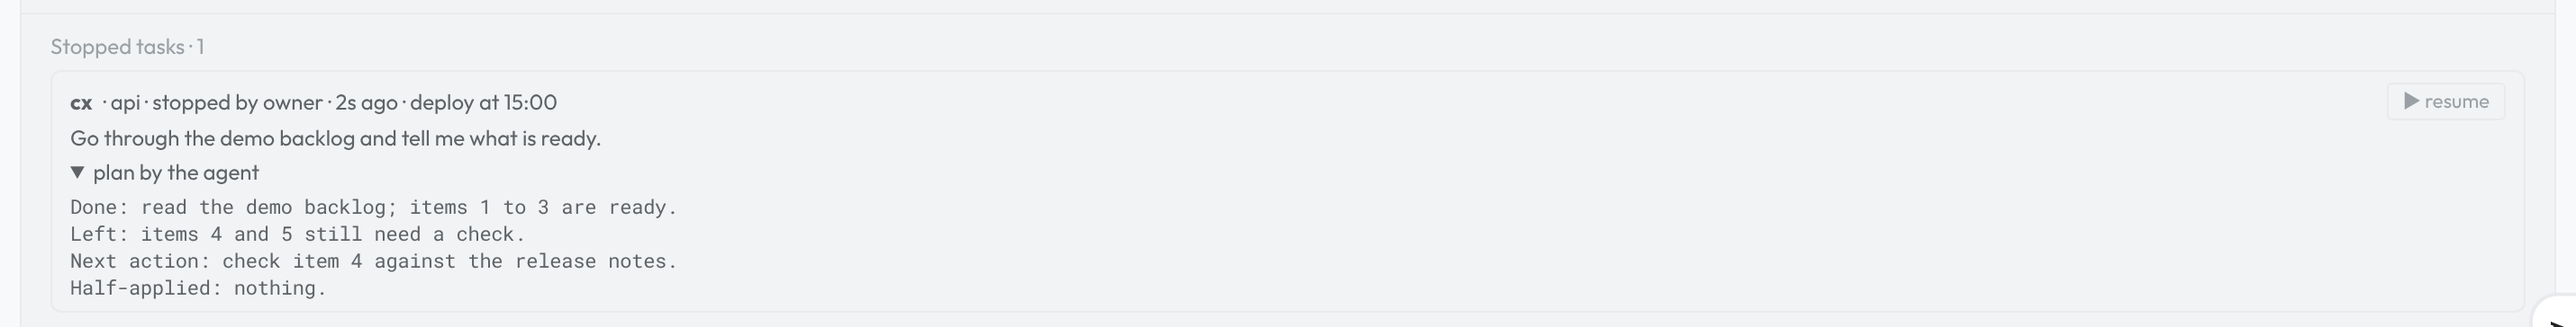
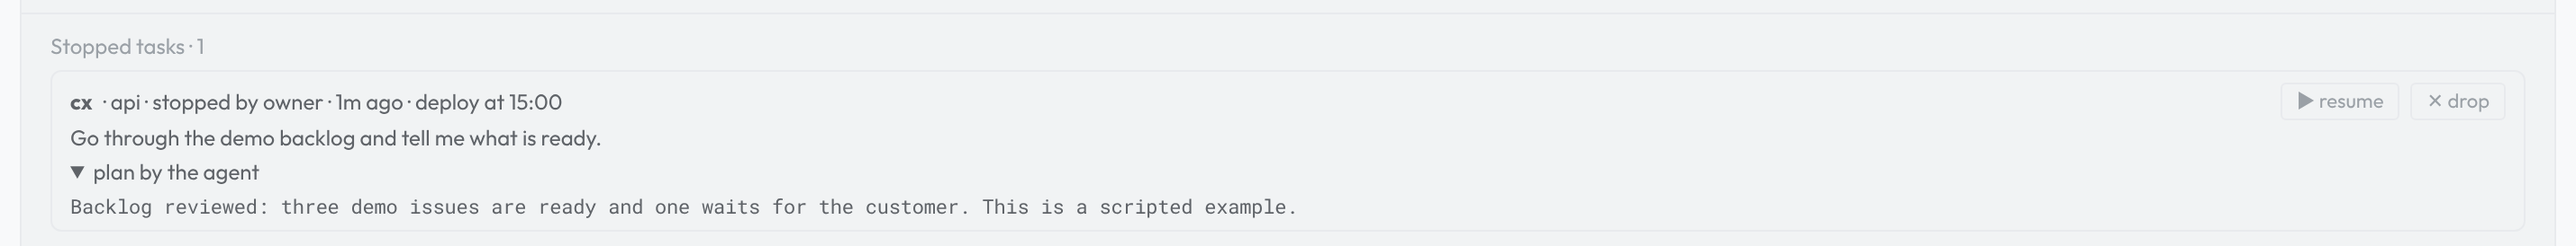
fix(signals): peer token without via is that peer; drop stopped tasks; clear stale claims (#871) (#880)
- signalSender(): a request with a peer's own token (mesh.peers[].token)
  is that peer even without `via`, so signals.allowPeers holds for it.
  The shared MESH_TOKEN still names no peer (owner), as documented.
- Drop a stopped task nobody will resume: SignalService.drop(),
  POST /api/signals/drop (mesh-gated control post, dashboard proxy),
  `agentx signal drop <id>`, and a "drop" button under Stopped tasks on
  the Live page. Same who-may rules as resume; refused while the plan is
  being written or a resume is under way; publishes `signal:dropped`.
- recover() at boot removes a resume claim left on a record that is not
  `resumed` (a crash between claim() and the save), so the task can be
  resumed again.
- Docs: allow-list vs the shared mesh token, dropping a task, the
  plan-writing turn's context; refreshed the Live stopped-task screenshot.

Closes #871

Claude-Session: https://claude.ai/code/session_01AajNkSp8aP27hUnUj5awKm

diff --git a/test/agent-signals.test.ts b/test/agent-signals.test.ts
@@ -1,5 +1,5 @@
 import { describe, it, expect, beforeEach, afterEach } from "vitest"
-import { mkdtempSync, rmSync } from "fs"
+import { existsSync, mkdtempSync, rmSync } from "fs"
 import { tmpdir } from "os"
 import { join } from "path"
 import { canSignal, DEFAULT_SIGNAL_SETTINGS, SignalBudget, type SignalSettings } from "../src/agents/signals/policy"
@@ -341,7 +341,7 @@ describe("config", () => {
 })
 
 describe("live page", () => {
-  it("ships a script that parses, with pause and resume actions", async () => {
+  it("ships a script that parses, with pause, resume and drop actions", async () => {
     const { renderLivePage } = await import("../src/daemon/ui/pages/live")
     const html = renderLivePage()
     const scripts = [...html.matchAll(/<script(?![^>]*\bsrc=)[^>]*>([\s\S]*?)<\/script>/g)].map((m) => m[1])
@@ -349,6 +349,8 @@ describe("live page", () => {
     expect(html).toContain("data-action=\"signal-stop\"")
     expect(html).toContain("data-action=\"signal-resume\"")
     expect(html).toContain("/api/signals/resume")
+    expect(html).toContain("data-action=\"signal-drop\"")
+    expect(html).toContain("/api/signals/drop")
   })
 })
 
@@ -448,5 +450,58 @@ describe("the cut-off tool call and the workflow `signal` kind", () => {
     expect(got).toEqual([])
     legacy.publish({ kind: "signal", name: "go", scope: "global" } as any)
     expect(got).toHaveLength(1)
+  })
+})
+
+describe("follow-ups (#871)", () => {
+  it("a peer's own token is that peer without `via`, so signals.allowPeers holds for it", () => {
+    const sender = signalSender({ proofGiven: false, provenTurn: null, tokenPeer: "laptop" })
+    expect(sender).toEqual({ kind: "peer", peer: "laptop" })
+    if ("error" in sender) throw new Error(sender.error)
+    expect(canSignal(sender, { agentId: "coder" }, settings()).ok).toBe(false)
+    expect(canSignal(sender, { agentId: "coder" }, settings({ allowPeers: ["laptop"] })).ok).toBe(true)
+    // The shared mesh token names no peer: still the owner.
+    expect(signalSender({ proofGiven: false, provenTurn: null, tokenPeer: null })).toEqual({ kind: "owner" })
+  })
+
+  it("drops a stopped task nobody will resume, by the same rules as resume", async () => {
+    const h = harness()
+    const r = await h.service.stop({ kind: "owner" }, { taskId: "run-1" })
+    if (!r.ok) throw new Error(r.error)
+    await r.done
+    const deps = { service: h.service, selfNode: "server", sender: { kind: "peer" as const, peer: "laptop" }, forward: async () => null }
+    expect((await handleSignalsHttp("POST", "/api/signals/drop", new URLSearchParams(), { id: "run-1" }, deps)).status).toBe(403)
+    expect((await handleSignalsHttp("POST", "/api/signals/drop", new URLSearchParams(), {}, { ...deps, sender: { kind: "owner" } })).status).toBe(400)
+    const ok = await handleSignalsHttp("POST", "/api/signals/drop", new URLSearchParams(), { id: "run-1" }, { ...deps, sender: { kind: "owner" } })
+    expect(ok).toMatchObject({ status: 200, body: { ok: true, id: "run-1", dropped: true } })
+    expect(h.service.get("run-1")).toBeNull()
+    expect(h.events.map((e) => e.type)).toContain("signal:dropped")
+    expect((await handleSignalsHttp("POST", "/api/signals/drop", new URLSearchParams(), { id: "run-1" }, { ...deps, sender: { kind: "owner" } })).status).toBe(404)
+  })
+
+  it("refuses to drop a task still writing its plan", async () => {
+    const h = harness({ windDown: () => new Promise(() => {}) })
+    const r = await h.service.stop({ kind: "owner" }, { taskId: "run-1" })
+    if (!r.ok) throw new Error(r.error)
+    const d = h.service.drop({ kind: "owner" }, "run-1")
+    expect(d).toMatchObject({ ok: false, status: 409 })
+  })
+
+  it("after a restart, removes a claim left on a task never resumed, so it can be resumed", async () => {
+    const h = harness()
+    const r = await h.service.stop({ kind: "owner" }, { taskId: "run-1" })
+    if (!r.ok) throw new Error(r.error)
+    await r.done
+    // A crash between claim() and the save: the claim stays, the record says stopped.
+    expect(h.deps.store.claim("run-1")).toBe(true)
+    expect(await h.service.resume({ kind: "owner" }, "run-1")).toMatchObject({ ok: false, error: "the task was already resumed" })
+    const after = harness({ running: null })
+    after.service.recover()
+    expect(existsSync(join(dir, "run-1.json.claim"))).toBe(false)
+    expect((await after.service.resume({ kind: "owner" }, "run-1")).ok).toBe(true)
+    // A claim on a resumed record stays: it still guards against a second resume.
+    after.deps.store.claim("run-1")
+    after.service.recover()
+    expect(existsSync(join(dir, "run-1.json.claim"))).toBe(true)
   })
 })

diff --git a/src/daemon/signals-api.ts b/src/daemon/signals-api.ts
@@ -8,13 +8,16 @@ import { summarizeStopped } from "@/agents/signals/store"
 //   GET  /api/signals/stopped/:id                     one record, whole plan
 //   POST /api/signals/stop    { taskId } | { agentId, channel, chatId }, reason?, node?
 //   POST /api/signals/resume  { id, reason?, node? }
+//   POST /api/signals/drop    { id, node? }            forget a stopped task (#871)
 //
 // `node` names a mesh peer: the signal is forwarded there with this node's
 // peer token, and the peer decides by its own signals.allowPeers. The
 // caller is resolved by signalSender(): an agent proves itself with its
 // running task (the X-AgentX-Task / -Channel / -Chat headers its MCP
-// tools send); a forwarded signal carries `via`; anyone else past the
-// mesh gate is the owner (CLI, dashboard), as for /api/tasks/:id/cancel.
+// tools send); a forwarded signal carries `via`; a peer's own token names
+// that peer, with or without `via` (#871); anyone else past the mesh gate
+// (the shared mesh token, loopback) is the owner (CLI, dashboard), as for
+// /api/tasks/:id/cancel.
 
 export interface SignalsReply {
   status: number
@@ -50,6 +53,9 @@ export function signalSender(input: SenderInput): SignalSender | { error: string
     const agentId = typeof input.via.agentId === "string" && input.via.agentId.trim() ? input.via.agentId.trim() : undefined
     return agentId ? { kind: "agent", agentId, peer } : { kind: "peer", peer }
   }
+  // A peer's own token is that peer even when it sends no `via`, so
+  // signals.allowPeers holds for it (#871).
+  if (input.tokenPeer) return { kind: "peer", peer: input.tokenPeer }
   return { kind: "owner" }
 }
 
@@ -77,7 +83,7 @@ export interface SignalsHttpDeps {
 const str = (v: unknown): string | undefined => (typeof v === "string" && v.trim() ? v.trim() : undefined)
 
 export function isSignalsPath(path: string): boolean {
-  return path === "/api/signals/stop" || path === "/api/signals/resume" || path === "/api/signals/stopped" ||
+  return path === "/api/signals/stop" || path === "/api/signals/resume" || path === "/api/signals/drop" || path === "/api/signals/stopped" ||
     /^\/api\/signals\/stopped\/[^/]+$/.test(path)
 }
 
@@ -145,6 +151,13 @@ export async function handleSignalsHttp(
     const r = await deps.service.resume(deps.sender, id, str(body.reason))
     if (!r.ok) return { status: r.status, body: { error: r.error } }
     return { status: 200, body: { ok: true, node: deps.selfNode, id: r.record.id, agentId: r.record.agentId, rootId: r.record.rootId, state: r.record.state, delivery: r.delivery } }
+  }
+  if (path === "/api/signals/drop") {
+    const id = str(body.id)
+    if (!id) return { status: 400, body: { error: "send { id } of a stopped task" } }
+    const r = deps.service.drop(deps.sender, id)
+    if (!r.ok) return { status: r.status, body: { error: r.error } }
+    return { status: 200, body: { ok: true, node: deps.selfNode, id: r.record.id, agentId: r.record.agentId, rootId: r.record.rootId, dropped: true } }
   }
   return { status: 404, body: { error: "not found" } }
 }

diff --git a/src/daemon/ui/pages/live.ts b/src/daemon/ui/pages/live.ts
@@ -93,7 +93,7 @@ const LIVE_PAGE_CSS = `
 .ax-node__stopped ul { list-style: none; margin: 6px 0 0; padding: 0; display: grid; gap: 6px; }
 .ax-node__stopped-item { border: 1px solid var(--ax-border); border-radius: 6px; padding: 6px 10px; color: var(--ax-text-2, inherit); }
 .ax-node__stopped-head { display: flex; flex-wrap: wrap; align-items: center; gap: 4px 6px; }
-.ax-node__stopped-head .ax-task-action { margin-left: auto; }
+.ax-node__stopped-head .ax-task-action:first-of-type { margin-left: auto; }
 .ax-node__stopped-ask { margin-top: 2px; overflow-wrap: anywhere; }
 .ax-node__stopped summary { cursor: pointer; margin-top: 4px; }
 .ax-node__stopped-plan { white-space: pre-wrap; overflow-wrap: anywhere; font-family: var(--ax-mono); font-size: 11px; margin: 4px 0 0; max-height: 240px; overflow: auto; }
@@ -493,10 +493,13 @@ function stoppedHtml(node) {
     const resume = t.state === 'stopped' && t.resumable
       ? '<button type="button" class="ax-task-action" data-action="signal-resume" data-stopped-id="' + escapeHtml(t.id) + '" data-node-url="' + url + '" title="Resume this task from its plan, in the same chat">▶ resume</button>'
       : '';
+    const drop = t.state !== 'winding-down'
+      ? '<button type="button" class="ax-task-action" data-action="signal-drop" data-stopped-id="' + escapeHtml(t.id) + '" data-node-url="' + url + '" title="Forget this stopped task and its plan">✕ drop</button>'
+      : '';
     return '<li class="ax-node__stopped-item">' +
       '<div class="ax-node__stopped-head"><b>' + escapeHtml(t.agentId) + '</b> · ' + escapeHtml(t.channel) +
         ' · stopped by ' + escapeHtml(t.stoppedBy) + ' · ' + escapeHtml(fmtAgo(t.stoppedAt)) +
-        (t.reason ? ' · ' + escapeHtml(t.reason) : '') + resume + '</div>' +
+        (t.reason ? ' · ' + escapeHtml(t.reason) : '') + resume + drop + '</div>' +
       '<div class="ax-node__stopped-ask">' + escapeHtml(t.request) + '</div>' +
       (t.plan ? '<details><summary>' + escapeHtml(by) + '</summary><pre class="ax-node__stopped-plan">' + escapeHtml(t.plan.text) + '</pre></details>'
         : '<div class="ax-node__stopped-ask">' + escapeHtml(by) + '</div>') +
@@ -842,6 +845,11 @@ document.getElementById('grid').addEventListener('click', (e) => {
     }
     if (action === 'signal-resume') {
       signalPost(actionEl, '/api/signals/resume', nodeUrl, { id: actionEl.dataset.stoppedId }, 'resumed');
+      return;
+    }
+    if (action === 'signal-drop') {
+      if (!confirm('Drop this stopped task? Its resume plan is deleted and it can no longer be resumed.')) return;
+      signalPost(actionEl, '/api/signals/drop', nodeUrl, { id: actionEl.dataset.stoppedId }, 'dropped');
       return;
     }
     if (action === 'voice-stop') {

diff --git a/src/agents/signals/service.ts b/src/agents/signals/service.ts
@@ -187,10 +187,34 @@ export class SignalService {
     }
   }
 
+  /** Forget a stopped task and its plan (#871). Stopped records are kept
+   *  until resumed, so one nobody will resume stays until dropped. Same
+   *  rules as resume for who may; refused while the plan is being written
+   *  or a resume is under way. Not counted against the root budget: it
+   *  starts nothing. */
+  drop(sender: SignalSender, id: string): SignalResult {
+    const record = this.deps.store.get(id)
+    if (!record) return { ok: false, status: 404, error: `no stopped task ${id}` }
+    if (record.state === "winding-down") return { ok: false, status: 409, error: "the task is still writing its resume plan; try again in a moment" }
+    if (this.resuming.has(id)) return { ok: false, status: 409, error: "the task is being resumed" }
+    const allowed = canSignal(sender, { agentId: record.agentId, sender: record.sender }, this.deps.settings())
+    if (!allowed.ok) return { ok: false, status: 403, error: allowed.reason }
+    if (!this.deps.store.remove(id)) return { ok: false, status: 500, error: `couldn't remove ${id}` }
+    const by = describeSender(sender)
+    this.deps.publish({ type: "signal:dropped", agentId: record.agentId, rootId: record.rootId, ref: id, summary: `stopped task of ${record.agentId} dropped by ${by}` })
+    this.deps.log(`[signals] ${record.agentId} task ${id} dropped by ${by}`)
+    return { ok: true, record }
+  }
+
   /** After a restart: a task whose wind-down the restart cut off would
    *  wait as "winding-down" forever. Give it a plan from its trace (no
-   *  model call) so it can be resumed. Returns how many it closed. */
+   *  model call) so it can be resumed. A resume the restart cut off
+   *  between its claim and its save left a claim on a task still
+   *  `stopped`; that claim is removed (#871). Returns how many tasks it
+   *  closed. */
   recover(): number {
+    const claims = this.deps.store.dropStaleClaims()
+    if (claims) this.deps.log(`[signals] removed ${claims} resume claim(s) a restart left on tasks never resumed`)
     let n = 0
     for (const record of this.deps.store.list({ state: "winding-down", limit: 200, now: this.now() })) {
       const plan = machinePlan({ toolCalls: this.deps.toolCalls(record.traceId), note: "a restart cut off the wind-down" })

diff --git a/src/commands/signal.ts b/src/commands/signal.ts
@@ -9,6 +9,7 @@ import { loadDaemonConfig } from "@/daemon/config"
 //   agentx signal list [--all]                          stopped tasks and their plans
 //   agentx signal show <id>                             one stopped task, whole plan
 //   agentx signal resume <id> [--reason …]              run it again from its plan
+//   agentx signal drop <id>                             forget a stopped task and its plan
 //
 // `--peer <name>` sends the signal to a mesh node, which accepts it only
 // when its signals.allowPeers names this node. Settings: `agentx config
@@ -122,4 +123,12 @@ common(signalCmd
     const data = await call(opts, "POST", "/api/signals/resume", { id, reason: opts.reason, node: opts.peer })
     console.log(chalk.green(`  resumed ${data.agentId} task ${data.id}`))
     if (data.delivery) console.log(chalk.dim(`  its answer goes to ${data.delivery}`))
+  })
+
+common(signalCmd
+  .command("drop <id>")
+  .description("forget a stopped task and its resume plan, when it won't be resumed"))
+  .action(async (id: string, opts) => {
+    const data = await call(opts, "POST", "/api/signals/drop", { id, node: opts.peer })
+    console.log(chalk.green(`  dropped ${data.agentId} task ${data.id}`))
   })

diff --git a/src/agents/signals/store.ts b/src/agents/signals/store.ts
@@ -89,6 +89,24 @@ export class StoppedTaskStore {
     try { unlinkSync(this.file(id)); return true } catch { return false }
   }
 
+  /** Remove claims whose record is not `resumed`: a crash between claim()
+   *  and the save leaves one, and every later resume would answer "already
+   *  resumed" (#871). Call at boot only, before any resume can run.
+   *  Returns how many it removed. */
+  dropStaleClaims(): number {
+    if (!existsSync(this.dir)) return 0
+    let n = 0
+    for (const name of readdirSync(this.dir)) {
+      if (!name.endsWith(".json.claim")) continue
+      const claim = resolve(this.dir, name)
+      let state: StoppedState | undefined
+      try { state = (JSON.parse(readFileSync(claim.slice(0, -".claim".length), "utf-8")) as StoppedTask).state } catch { /* no record */ }
+      if (state === "resumed") continue
+      try { unlinkSync(claim); n++ } catch { /* gone already */ }
+    }
+    return n
+  }
+
   /** Newest first. Drops resumed records past their keep time. */
   list(opts: { state?: StoppedState; agentId?: string; limit?: number; now?: number } = {}): StoppedTask[] {
     if (!existsSync(this.dir)) return []

diff --git a/src/daemon/board-dashboard.ts b/src/daemon/board-dashboard.ts
@@ -1108,7 +1108,8 @@ export async function handleBoardRequest(req: IncomingMessage, res: ServerRespon
   // stop or start a run.
   //   POST /api/signals/stop?node=<url>     { taskId, reason? }
   //   POST /api/signals/resume?node=<url>   { id }
-  if (method === "POST" && (path === "/api/signals/stop" || path === "/api/signals/resume")) {
+  //   POST /api/signals/drop?node=<url>     { id }
+  if (method === "POST" && (path === "/api/signals/stop" || path === "/api/signals/resume" || path === "/api/signals/drop")) {
     const nodeUrl = new URL(req.url || "/", "http://localhost").searchParams.get("node")
     if (!nodeUrl) { sendJson(res, 400, { error: "node query param required" }); return }
     await proxyNodePost(req, res, ctx, nodeUrl, path)

diff --git a/src/daemon/mesh-auth.ts b/src/daemon/mesh-auth.ts
@@ -100,7 +100,7 @@ export function isControlPost(path: string): boolean {
     // Stopping a workflow run (#788).
     /^\/workflow-runs\/[^/]+\/cancel$/.test(path) ||
     // Stop and resume signals (#857).
-    path === "/api/signals/stop" || path === "/api/signals/resume"
+    path === "/api/signals/stop" || path === "/api/signals/resume" || path === "/api/signals/drop"
 }
 
 /** True when the socket peer is on this host. Used by loopback-only

diff --git a/docs/jobs/pause-and-resume.md b/docs/jobs/pause-and-resume.md
@@ -13,6 +13,8 @@ That note is the **resume plan**. Right after the stop, the agent gets one short
 | Next action | The first thing to do when the task is resumed. |
 | Half-applied | Anything started but not finished, such as a partial edit, an open branch or an unsent message. |
 
+The plan is written in a separate chat with the agent's usual tools. In it, the agent sees the original request and the list of tools it used, not the conversation that was stopped.
+
 The agent does nothing else in that turn. If it doesn't answer within the time limit (two minutes unless you change it), AgentX stops that turn too and writes the plan itself from the run's *trace* (the record of every tool the agent used). Such a plan says it was written by AgentX.
 
 A paused task is marked **stopped**, not failed. It waits until someone resumes it. Resuming runs it again in the same chat, with the plan placed before the original request, so the agent continues instead of starting over.
@@ -56,6 +58,16 @@ In AgentX, a stop or resume request is called a **signal**. These are not the wo
 
 ![Stopped tasks on the Live page, with a resume plan opened and the ▶ resume button](/screenshots/live/stopped-task.png)
 
+## Drop a task you won't resume
+
+A paused task stays in **Stopped tasks** until it is resumed. A resumed task is removed by itself after 7 days. To remove one you will never resume:
+
+1. **Browser:** open the **Live** tab.
+2. Under the machine's name, find the task in **Stopped tasks**.
+3. Select **✕ drop**, then select **OK** to confirm. The task and its plan are deleted, and it can no longer be resumed.
+
+From the terminal, `agentx signal drop <taskId>` does the same.
+
 ## Pause and resume from the terminal
 
 1. **Terminal:** run `curl -s http://127.0.0.1:18800/agents` and copy the `id` listed under the agent's `runningTasks`. On the dashboard, the same id is in the address bar of a running task's page.
@@ -63,6 +75,7 @@ In AgentX, a stop or resume request is called a **signal**. These are not the wo
 3. **Terminal:** run `agentx signal list` to see stopped tasks. The plan's first line is shown under each one.
 4. **Terminal:** run `agentx signal show <taskId>` to read the whole plan.
 5. **Terminal:** when you're ready, run `agentx signal resume <taskId>`.
+6. **Terminal:** if the task will never be resumed, run `agentx signal drop <taskId>` instead. This deletes the task's record and plan.
 
 Without a task id, name the agent and its chat instead: `agentx signal stop --agent coder --channel telegram --chat 12345`. This works when that agent has exactly one task running on that chat.
 
@@ -85,7 +98,7 @@ A workflow can resume a task with the built-in action `signal.resume`. Give it t
 
 An agent can never pause its own task, and the plan-writing turn cannot send signals.
 
-A machine is recognised by its own token in `mesh.peers`. A request that carries the token every machine shares (`MESH_TOKEN`) is believed about which machine it comes from. If your machines are not all equally trusted, give each one its own token in `mesh.peers`.
+A machine is recognised by its own token in `mesh.peers`: a request with that token counts as that machine, so `signals.allowPeers` applies to it. `signals.allowPeers` does not protect you from a machine that uses the token every machine shares (`MESH_TOKEN`). Such a request is believed about which machine it comes from, and when it names none it counts as you, the owner. The same token already lets a machine cancel tasks and reload this one. If your machines are not all equally trusted, give each one its own token in `mesh.peers`.
 
 A step of a workflow run can't be paused: pausing it would fail the whole run, and a resume would run the step outside it. The pause is refused with a message saying so. Cancel or pause the workflow run instead.
 
@@ -108,7 +121,7 @@ The settings live under `signals` in `agentx.json`. Change them with `agentx con
 
 The last setting is a brake against loops between agents. Everything that comes from one request (a chat message, a schedule, a webhook) shares one id, its *root*. A paused and resumed task keeps its root. When signals keep bouncing, for example one agent resumes what another keeps pausing, the seventh signal from agents or other machines in a day is refused. Your own pauses and resumes are never counted or refused.
 
-Each pause and resume is also published as an event of kind `signal` (`signal:stop`, `signal:stopped`, `signal:resume`, `signal:resume-failed`), so an agent can [follow events](/automations/event-subscriptions) about it.
+Each pause and resume is also published as an event of kind `signal` (`signal:stop`, `signal:stopped`, `signal:resume`, `signal:resume-failed`, `signal:dropped`), so an agent can [follow events](/automations/event-subscriptions) about it.
 
 ## Check it worked
 
@@ -127,4 +140,6 @@ Each pause and resume is also published as an event of kind `signal` (`signal:st
 - **"is a step of workflow run":** the task belongs to a workflow run. Cancel or pause the workflow run instead.
 - **"carried 6 signals today":** the loop brake stopped an agent's signal. Check which agents keep pausing and resuming this task before you raise `signals.maxPerRoot`.
 - **The plan says "written by AgentX":** the agent didn't answer in time. Raise `signals.windDownSeconds` if your agents need longer.
+- **Resume says "already resumed" but the task shows stopped:** AgentX stopped in the middle of a resume. Restart AgentX; on start it clears the leftover mark, and you can resume again.
+- **"mesh peer … is not in signals.allowPeers" from your own dashboard:** the dashboard reaches that machine with a token from `mesh.peers`, so it counts as that machine. Add the machine to `signals.allowPeers`, or give the dashboard the shared `MESH_TOKEN` for it.
 - **Resume does nothing in a chat:** the chat's channel isn't running on this machine any more. Check it in [Settings](/dashboard/settings).

diff --git a/docs/reference/config-automation.md b/docs/reference/config-automation.md
@@ -341,7 +341,7 @@ Pausing a running task with a resume plan, and resuming it later. You may always
 | `signals.enabled` | boolean | `true` | Turns pausing and resuming on. Off: every signal is refused, yours included. |
 | `signals.windDownSeconds` | number (10–1800) | `120` | How long a paused agent gets to write its resume plan. Past it, the plan-writing turn is stopped and AgentX writes the plan from the run's trace. |
 | `signals.allowAgents` | list of strings | `[]` | Agents that may pause or resume any task on this machine. `"*"` allows every agent. An agent never pauses its own task. |
-| `signals.allowPeers` | list of strings | `[]` | Mesh machines (their node names) whose signals this machine accepts. A machine using the shared `MESH_TOKEN` is believed about its name; use per-peer tokens in `mesh.peers` if machines are not equally trusted. |
+| `signals.allowPeers` | list of strings | `[]` | Mesh machines (their node names) whose signals this machine accepts. A machine using its own token from `mesh.peers` is that machine, with or without naming itself. The list does not hold for the shared `MESH_TOKEN`: such a machine is believed about its name, and counts as the owner when it names none. Use per-peer tokens in `mesh.peers` if machines are not equally trusted. |
 | `signals.maxPerRoot` | number (1–100) | `6` | Loop brake: most signals from agents and other machines one request (one root id) may carry in a day. The owner's are never counted. |
 
 ## `reminders`

diff --git a/docs/reference/cli-commands.md b/docs/reference/cli-commands.md
@@ -3044,6 +3044,10 @@ Resume a stopped task from its plan, in the same chat.
 |---|---|---|
 | `-r, --reason <reason>` | — | Why: recorded on the resume event. |
 
+### `agentx signal drop <id>`
+
+Forget a stopped task and its resume plan, when it won't be resumed. It can no longer be resumed afterwards.
+
 ## watch (advanced)
 
 `agentx watch`: Stream live daemon events — workflow runs, user tasks, signals, mesh health. **Advanced.**
